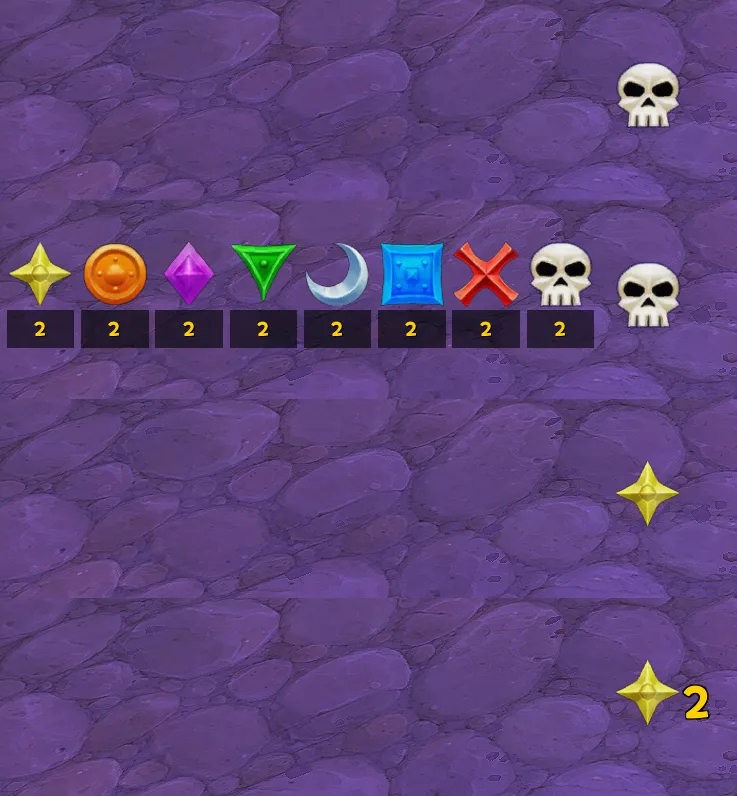
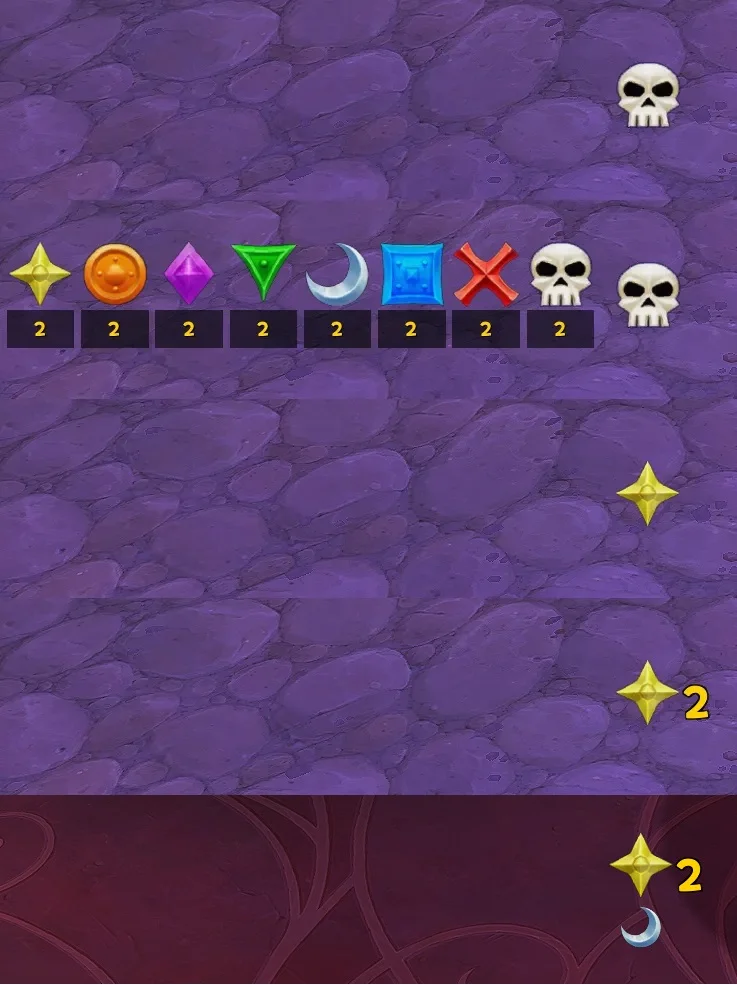
update WOW 차단 징표 애드온

diff --git a/src/content/blog/WOW 차단 징표 애드온.md b/src/content/blog/WOW 차단 징표 애드온.md
@@ -3,6 +3,7 @@ kind: article
 title: 내 차단 징표가 뭐였더라? 와우 애드온
 author: mychatterbox
 pubDate: 2026-05-15
+updatedDate: 2026-11-02
 slug: wow-my-marker
 featured: false
 draft: false
@@ -21,6 +22,12 @@ keywords:
 
 아주 간단한 애드온이므로 디자인을 바꾸거나 기능을 수정, 추가하고 싶으면 코드를 AI 에게 물어보시면 됩니다.  
 애드온 수정 후 와우 재접할 필요 없이 /reloadui 혹은 /rl 하시면 바로 적용됩니다.  
+
+---
+
+2026-11-02 기능 업데이트  
+특정 상황에서 2번째 징표를 배정받을 때 표시하기 위해 아래쪽에 징표를 하나 더 표시할 수 있습니다.  
+메인 아이콘을 우클릭해서 아래 보조 아이콘을 표시/숨김 토글 할 수 있습니다.  
 
 ![차단징 애드온](./blog-images/2026/wow-my-marker.webp)
 
